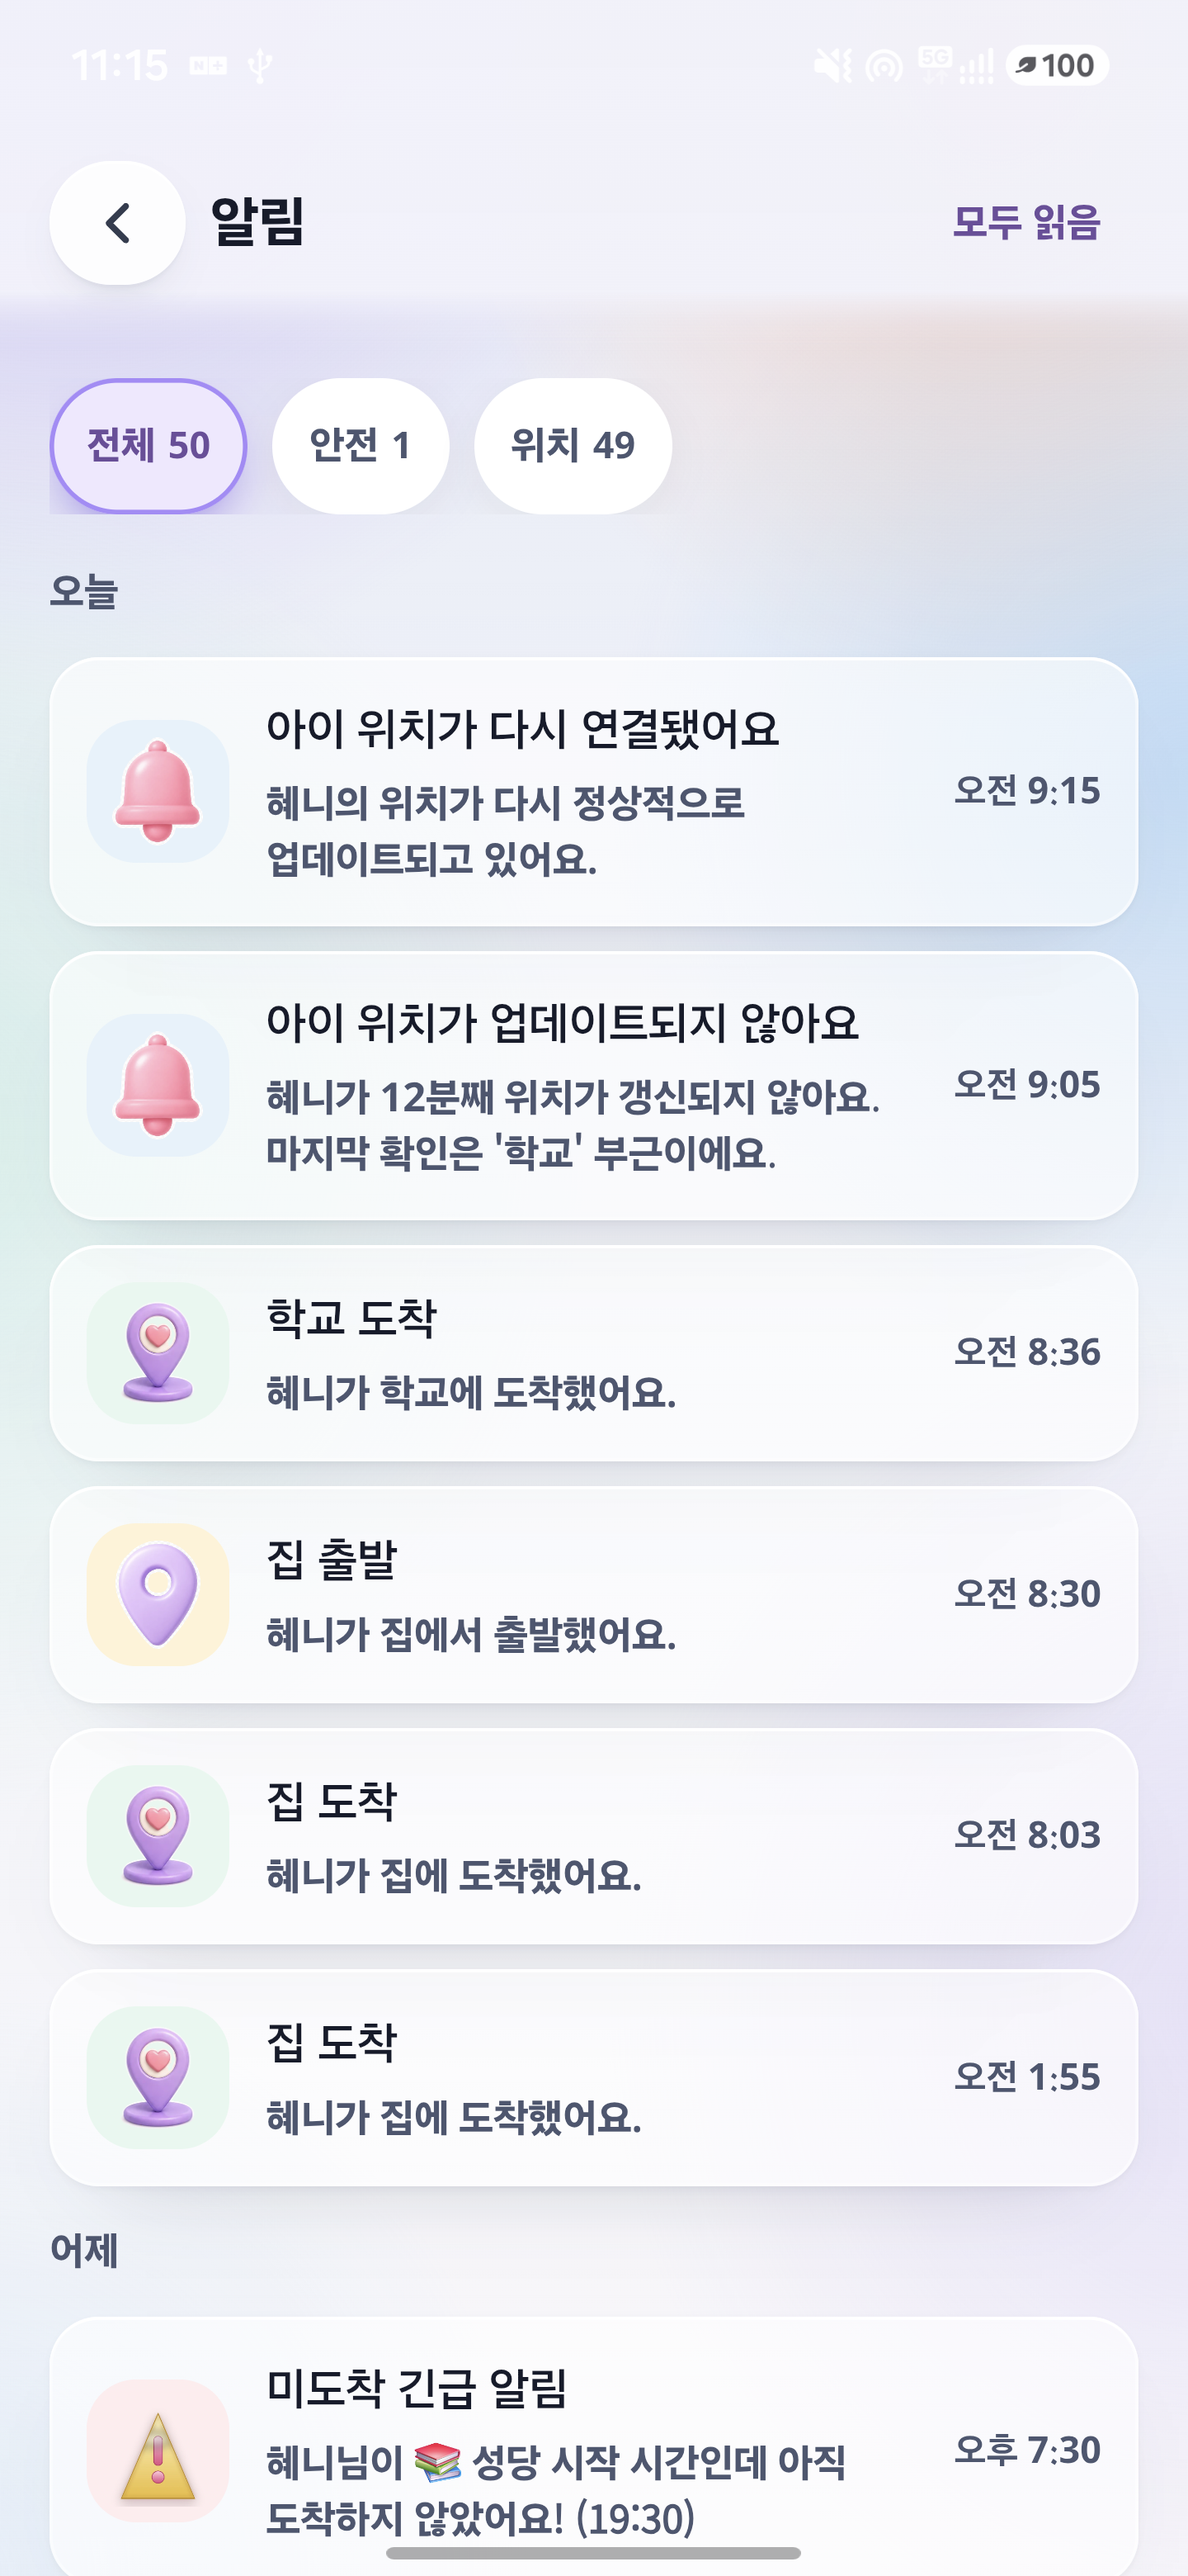
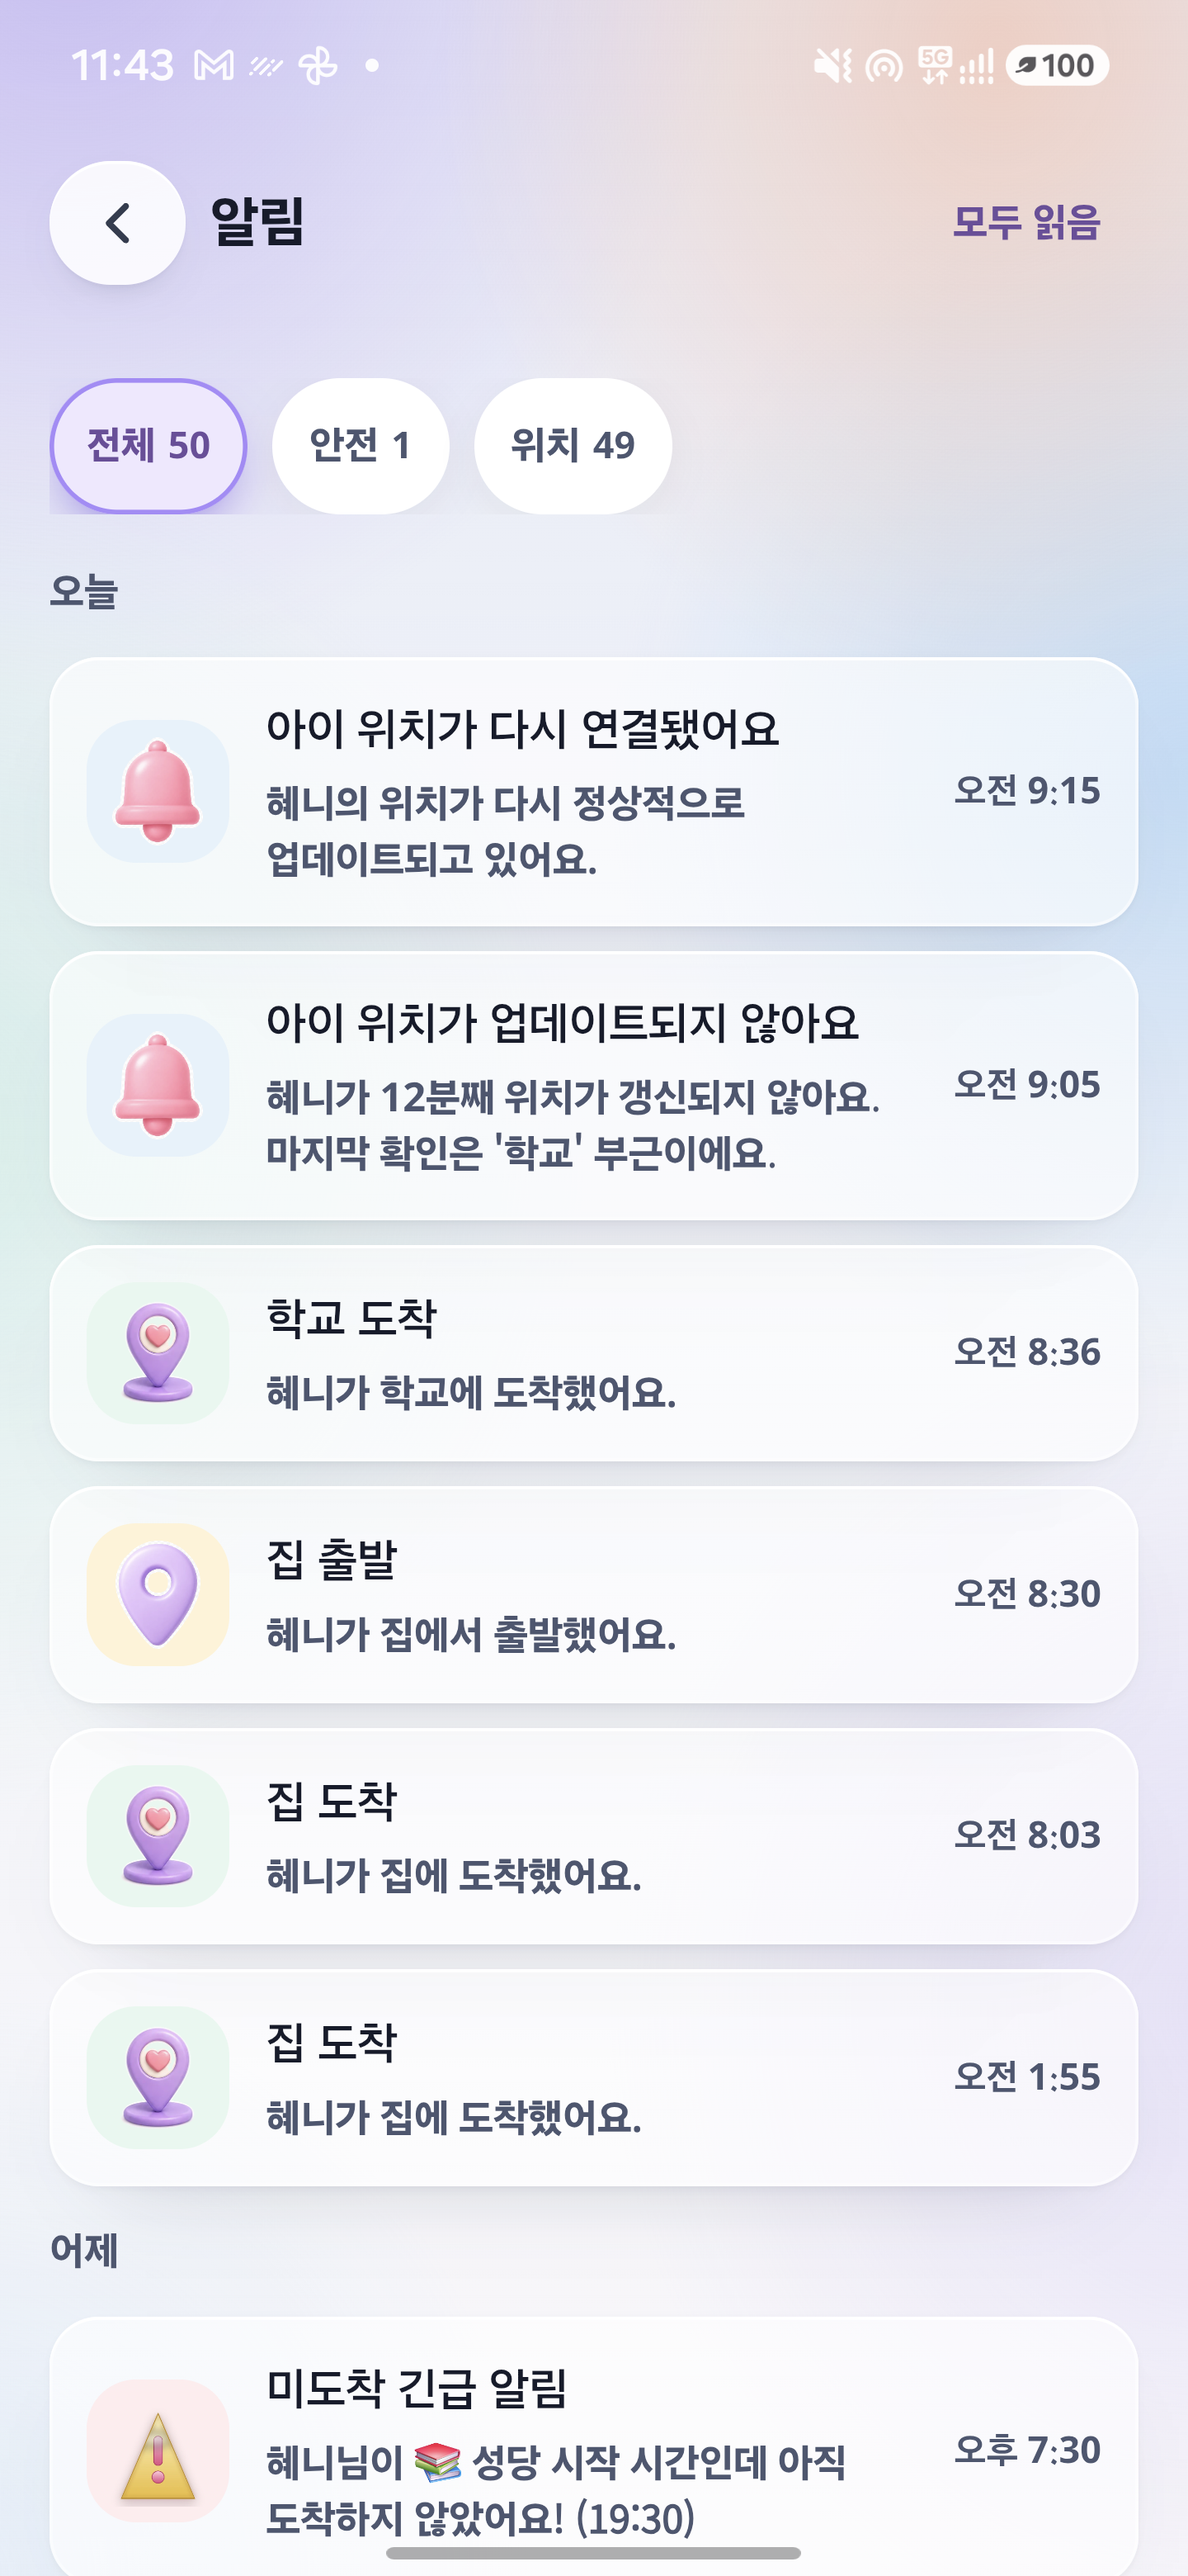
헤더 스크림을 가릴 것이 생겼을 때만 켠다
TK 제보: 알림 화면에서 전체·안전·위치 버튼과 아래 '오늘' 섹션 사이 경계가 여전히 보인다.

원인은 헤더 스크림 자체였다. 맨 위에서는 헤더 뒤에 아무것도 없는데 거의 불투명한
납작한 색(rgba(242,242,251,.96))을 칠하고 있어, 오로라 위에 사각형으로 읽혔다.
좌측 여백을 세로로 훑어 확인했다 — 그 구간에서만 명도가 16단계 튀고 나머지는 완만했다.

스크림을 옅게 만드는 것으로는 풀리지 않았다. 옅으면 이번에는 스크롤 중에 목록이
헤더 뒤로 비친다(부모 홈에서 실제로 그랬다). 두 요구가 상충하므로 상태로 나눈다:
  · 맨 위 → background: transparent (경계 없음)
  · 스크롤 시작 → 스크림 켜짐 (내용 가려짐)

src/app/useScrolledShell.ts 가 .hy-screen 에 data-scrolled 를 붙이고 glass.css 가
그 상태에서만 스크림을 칠한다. 어른 셸 3개(부모·선생님·푸시)에만 붙인다.
순수 CSS(animation-timeline: scroll())로도 되지만 PWA Safari 가 아직 지원하지 않아
passive 리스너 하나로 통일했고, 상태가 실제로 바뀔 때만 DOM 을 건드린다.

실측(S25 프레임버퍼):
- 맨 위: 헤더~필터~오늘~카드 구간의 최대 색 변화 delta 16 → 4 (경계 소멸)
- 스크롤 중: 헤더 안 명도 폭 14~15/255(약 5%)로 내용이 사실상 가려짐
- 헤더 글자: 제목 16.70:1 · 모두 읽음 6.36:1 (둘 다 AA 통과)

⚠ AppShell.tsx 의 PushShell 본문은 tests/aiBuddyFab.test.ts 가 400자 창 안에서
<AiBuddyFabSlot> 을 찾는다. 훅 한 줄을 넣자 창을 넘겨 테스트가 깨졌으므로 주석을
줄여 맞췄다(현재 398자). 주석을 길게 쓰면 다시 깨진다.

회귀 가드 2개를 추가했다: 스크림이 data-scrolled 에서만 켜지는지, 알림 필터가
sticky 헤더가 아니라 메인 섹션 안에 있는지.

검증: typecheck·production build(JS 342,475/500,000 · CSS 43,651/44,000 ·
PWA precache 중복 없음), 앱 전체 회귀 1,816개 전부 통과. S25(R5CY521CFNZ)에
adb install -r 로 데이터 보존 설치해 알림·부모 홈 두 상태를 실기기에서 확인했다.

미검증: A17·razr 미연결. Worker/Pages 는 배포하지 않았다.

Claude-Session: https://claude.ai/code/session_01UTUkBQZDA6Gkb9dfi76N85

Changed region(s): [[0.5625, 0.0, 1.0, 0.1244], [0.0, 0.0, 0.4375, 0.1244]]

diff --git a/src/styles/glass.css b/src/styles/glass.css
@@ -170,14 +170,9 @@
   border-bottom: 0;
   /* 스크롤 내용이 브랜드 행 뒤로 비쳐 보이면 안 된다 — 제목 줄까지는 거의 불투명하게
      덮고 마지막 구간만 오로라로 녹아든다. */
-  background: linear-gradient(
-    180deg,
-    rgba(242, 242, 251, 0.97) 0,
-    rgba(242, 242, 251, 0.96) calc(100% - 20px),
-    rgba(242, 242, 251, 0) 100%
-  );
-  backdrop-filter: blur(24px) saturate(150%);
-  -webkit-backdrop-filter: blur(24px) saturate(150%);
+  background: transparent;
+  backdrop-filter: blur(30px) saturate(180%);
+  -webkit-backdrop-filter: blur(30px) saturate(180%);
   /* ⚠ backdrop-filter 는 요소 상자에서 잘려 아래쪽에 딱딱한 경계선을 만든다.
      마스크로 블러를 함께 페이드시켜야 오로라와 이어진다.
      ⚠ 페이드 띠는 퍼센트가 아니라 padding-bottom 과 같은 px 로 잡는다 —
@@ -401,14 +396,9 @@
   border-bottom: 0;
   /* 마스크가 아래 26%를 지우므로 내용이 그 안에 들어오지 않게 여백을 확보한다. */
   padding-bottom: 20px;
-  background: linear-gradient(
-    180deg,
-    rgba(242, 242, 251, 0.97) 0,
-    rgba(242, 242, 251, 0.96) calc(100% - 20px),
-    rgba(242, 242, 251, 0) 100%
-  );
-  backdrop-filter: blur(24px) saturate(150%);
-  -webkit-backdrop-filter: blur(24px) saturate(150%);
+  background: transparent;
+  backdrop-filter: blur(30px) saturate(180%);
+  -webkit-backdrop-filter: blur(30px) saturate(180%);
   mask-image: linear-gradient(180deg, #000 0, #000 calc(100% - 20px), rgba(0, 0, 0, 0) 100%);
   -webkit-mask-image: linear-gradient(180deg, #000 0, #000 calc(100% - 20px), rgba(0, 0, 0, 0) 100%);
 }
@@ -513,4 +503,30 @@
     backdrop-filter: none;
     -webkit-backdrop-filter: none;
   }
+}
+
+/* ══════════════════════════════════════════════════════════════════════════
+   서리 스크림은 "가릴 것이 생겼을 때만" 켠다 (2026-08-21 TK 제보).
+   맨 위에서는 헤더 뒤에 아무것도 없으므로 스크림이 오로라 위에 납작한 사각형으로
+   읽힌다 — 그게 "전체·안전·위치 버튼과 오늘 섹션 사이 경계"의 실체였다.
+   스크롤 상태는 useScrolledShell 이 .hy-screen 에 data-scrolled 로 알린다.
+   ══════════════════════════════════════════════════════════════════════════ */
+.hy-adult .hy-screen[data-scrolled] :is(
+  .hy-topbar, .ais-header, .cdd-header, .dr-header,
+  .raa-header, .wr-header, .ps-head, .mc-header,
+  .ac-header, .aa-header, .ci-header, .da-header,
+  .dzf-header, .ds-head, .ds-header, .fc-header,
+  .fb-header, .fp-header, .lset-header, .ls-header,
+  .nc-header, .pw-header, .psu-header, .pf-header,
+  .pm-header, .pa-header, .pa-head, .pe-header,
+  .rv-header, .sub-header, .sup-header, .tl-head,
+  .cd-header, .ef-header, .pc-header, .th-topbar,
+  .tn-header, .ts-header, .tt-topbar
+) {
+  background: linear-gradient(
+    180deg,
+    rgba(248, 248, 253, 0.94) 0,
+    rgba(248, 248, 253, 0.92) calc(100% - 20px),
+    rgba(248, 248, 253, 0) 100%
+  );
 }

diff --git a/src/app/AppShell.tsx b/src/app/AppShell.tsx
@@ -3,6 +3,7 @@ import { Home, CalendarDays, MapPin, MessageCircle, Settings, Users } from "luci
 import { lazy, Suspense, useMemo } from "react";
 import { useAccent } from "./accent";
 import { useAuth } from "@/auth/AuthContext";
+import { useScrolledShell } from "./useScrolledShell";
 import { useEffect } from "react";
 import { warmKakaoMaps } from "@/lib/kakaoMap";
 import { ChildDock } from "./ChildDock";
@@ -79,10 +80,11 @@ function useWarmKakaoMaps(): void {
 export function ParentShell() {
   const { accent } = useAccent();
   const tabs = useMemoDotTabs(useParentTabs(), "/parent/memo");
+  const scrolledRef = useScrolledShell();
   useWarmKakaoMaps();
   return (
     <div className="hy-app hy-adult" data-role="parent" data-accent={accent}>
-      <main className="hy-screen">
+      <main className="hy-screen" ref={scrolledRef}>
         <Outlet />
       </main>
       <TabBar tabs={tabs} iconOnly />
@@ -111,9 +113,10 @@ export function ChildShell() {
 /** 선생님 모드 셸: 강조색 민트 고정 + 선생님 탭바. */
 export function TeacherShell() {
   const tabs = useTeacherTabs();
+  const scrolledRef = useScrolledShell();
   return (
     <div className="hy-app hy-adult" data-accent="mint">
-      <main className="hy-screen">
+      <main className="hy-screen" ref={scrolledRef}>
         <Outlet />
       </main>
       <TabBar tabs={tabs} />
@@ -125,14 +128,15 @@ export function TeacherShell() {
 /** 푸시/상세 화면 셸: 탭바 없음(화면 자체 헤더의 뒤로가기 사용). */
 export function PushShell() {
   const { accent } = useAccent();
-  // 아이도 지나가는 셸이라 어른 유리 언어(.hy-adult)는 세션 role 로 판정한다.
+  // 아이도 쓰는 셸이라 .hy-adult 는 role 로 정한다.
   const { role } = useAuth();
+  const scrolledRef = useScrolledShell();
   return (
     <div className={`hy-app${role === "child" ? "" : " hy-adult"}`} data-accent={accent}>
-      <main className="hy-screen">
+      <main className="hy-screen" ref={scrolledRef}>
         <Outlet />
       </main>
-      {/* 아이가 상세 화면에 있어도 AI 친구는 계속 대기한다(부모·선생님 세션에서는 렌더되지 않음). */}
+      {/* 아이 세션에서만 렌더된다. */}
       <AiBuddyFabSlot bottomInset={20} />
       <ToastHost />
     </div>

diff --git a/src/app/useScrolledShell.ts b/src/app/useScrolledShell.ts
@@ -1,0 +1,50 @@
+import { useCallback, useEffect, useRef } from "react";
+
+/**
+ * 스크롤 영역이 맨 위인지 아닌지를 `data-scrolled` 로 알린다.
+ *
+ * 왜 필요한가(2026-08-21 TK 제보 "필터 버튼과 오늘 섹션 사이 경계"):
+ * sticky 헤더의 서리 스크림은 두 가지를 동시에 만족할 수 없다.
+ *  · 맨 위에서는 가릴 내용이 없으므로 스크림이 있으면 오로라 위에 **납작한 사각형**으로 읽힌다.
+ *  · 스크롤 중에는 스크림이 옅으면 목록이 헤더 뒤로 **비쳐 보인다**.
+ * 그래서 "가릴 것이 생겼을 때만" 스크림을 켠다.
+ *
+ * 순수 CSS(animation-timeline: scroll())로도 가능하지만 PWA Safari 가 아직 지원하지 않아,
+ * 어느 환경에서나 같게 동작하도록 passive 리스너 하나로 처리한다.
+ */
+const SCROLLED_THRESHOLD_PX = 4;
+
+export function useScrolledShell(): (node: HTMLElement | null) => void {
+  const nodeRef = useRef<HTMLElement | null>(null);
+  const scrolledRef = useRef(false);
+
+  const sync = useCallback(() => {
+    const node = nodeRef.current;
+    if (!node) return;
+    const scrolled = node.scrollTop > SCROLLED_THRESHOLD_PX;
+    // 매 스크롤 프레임마다 DOM 을 건드리지 않는다 — 상태가 실제로 바뀔 때만 쓴다.
+    if (scrolled === scrolledRef.current) return;
+    scrolledRef.current = scrolled;
+    if (scrolled) node.dataset.scrolled = "true";
+    else delete node.dataset.scrolled;
+  }, []);
+
+  useEffect(() => () => {
+    const node = nodeRef.current;
+    if (node) node.removeEventListener("scroll", sync);
+  }, [sync]);
+
+  return useCallback(
+    (node: HTMLElement | null) => {
+      const previous = nodeRef.current;
+      if (previous) previous.removeEventListener("scroll", sync);
+      nodeRef.current = node;
+      scrolledRef.current = false;
+      if (!node) return;
+      node.addEventListener("scroll", sync, { passive: true });
+      // 화면을 바꿔 들어왔을 때 이미 스크롤돼 있을 수 있다.
+      sync();
+    },
+    [sync],
+  );
+}
